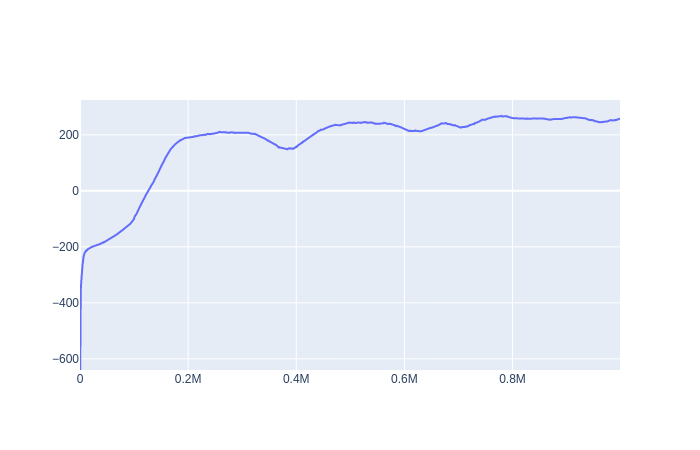
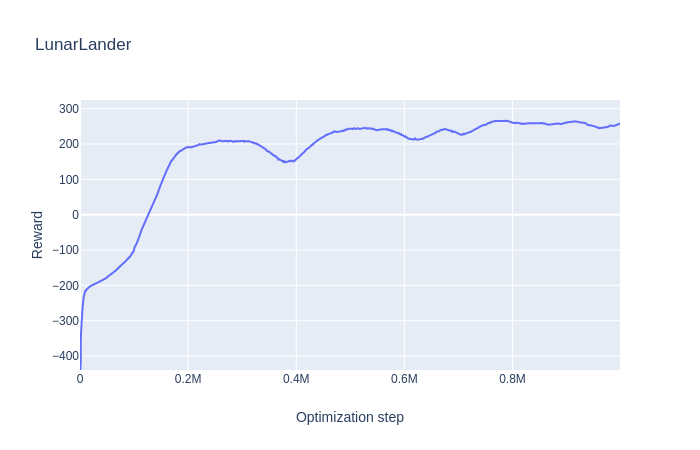
better image in results

diff --git a/results.md b/results.md
@@ -1,9 +1,12 @@
 # Current results
 
 - Find more or less optimal hyperparameters for DQN-LunarLander  
-    ![LunarLander](/docs/LunarLanderSimple.png) 
+    ![LunarLander](/docs/LunarLanderSimple.png)  
+    Plot averaged over 4 experiments  
+
 - Launch Layerwise, Global and ERPruners  
     TODO add plot  
+
 - Compare pruners, choose one for further experiments  
     TODO add text  
 - Use rescaling after pruning  
